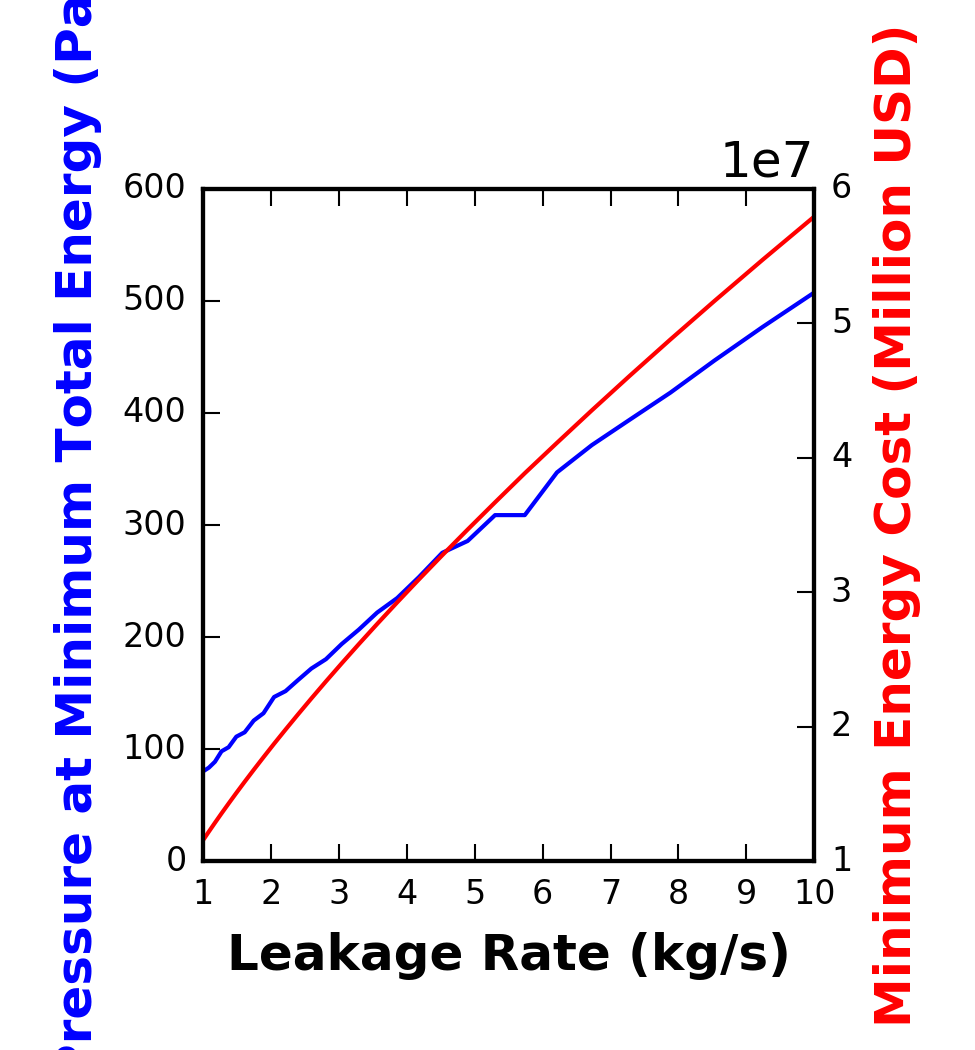
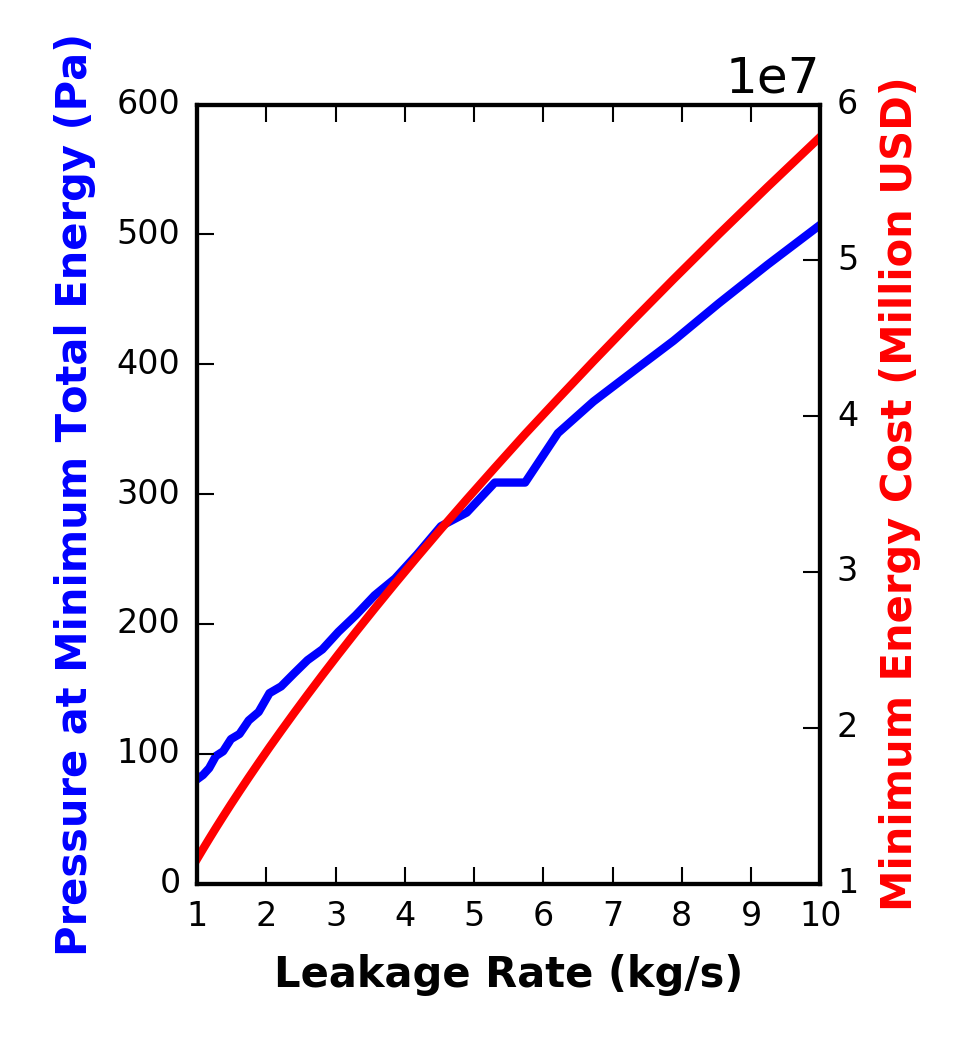
Update more figs

Changed region(s): [[0.0308, 0.0, 0.9538, 1.0], [0.6769, 0.2438, 0.7077, 0.2743], [0.6462, 0.2743, 0.6769, 0.3048]]

diff --git a/paper/images/trade_scripts/pressure_trades_plot.py b/paper/images/trade_scripts/pressure_trades_plot.py
@@ -21,16 +21,22 @@ plt.savefig('../graphs/pressure_trades/pressure_vs_Area.png', format = 'png', dp
 plt.show()
 
 fig = plt.figure(figsize = (3.25,3.5), tight_layout = True)
-ax = plt.axes()
-plt.hold(True)
-plt.subplot(211)
-line1, = plt.plot(p_tunnel, steady_vac, 'g-', linewidth = 2.0, label = 'Vaccum Power')
-line2, = plt.plot(p_tunnel, power, 'b-', linewidth = 2.0, label = 'Compressor Power')
-plt.ylabel('Power (hp)', fontsize = 10, fontweight = 'bold')
+ax1 = fig.add_subplot(211)
+line1, = ax1.plot(p_tunnel, steady_vac, 'g-', linewidth = 2.0, label = 'Vaccum Power')
+line2, = ax1.plot(p_tunnel, power, 'b-', linewidth = 2.0, label = 'Compressor Power')
+ax1.set_ylabel('Power (hp)', fontsize = 10, fontweight = 'bold')
 plt.legend(handles = [line1, line2], loc = 1, fontsize = 8)
-plt.subplot(212)
-plt.plot(p_tunnel, total_energy/(1.0e6), 'r-', linewidth = 2.0)
-plt.xlabel('Tube Pressure (Pa)', fontsize = 10, fontweight = 'bold')
-plt.ylabel('Total Energy Cost \n per Year (Million USD)', fontsize = 10, fontweight = 'bold')
+ax1.set_xticks([1000,2000,3000])
+ax1.set_yticks([4000, 8000, 12000, 16000])
+ax2 = fig.add_subplot(212)
+ax2.plot(p_tunnel, total_energy/(1.0e6), 'r-', linewidth = 2.0)
+ax2.set_xlabel('Tube Pressure (Pa)', fontsize = 10, fontweight = 'bold')
+ax2.set_ylabel('Total Energy Cost \n per Year (Million USD)', fontsize = 10, fontweight = 'bold')
+ax2.set_xticks([1000,2000,3000])
+ax2.set_yticks([0,40,80,120])
+plt.setp(ax1.get_xticklabels(), fontsize=8)
+plt.setp(ax1.get_yticklabels(), fontsize=8)
+plt.setp(ax2.get_xticklabels(), fontsize=8)
+plt.setp(ax2.get_yticklabels(), fontsize=8)
 plt.savefig('../graphs/pressure_trades/pressure_vs_power.png', format = 'png', dpi = 300)
 plt.show()

diff --git a/paper/images/trade_scripts/leakage_trades_plot.py b/paper/images/trade_scripts/leakage_trades_plot.py
@@ -25,10 +25,10 @@ plt.setp(ax1.get_yticklabels(), fontsize=8)
 plt.setp(ax2.get_xticklabels(), fontsize=8)
 plt.setp(ax2.get_yticklabels(), fontsize=8)
 
-ax1.plot(m_dot, p_tunnel, 'b-')
-ax2.plot(m_dot, total_energy_cost, 'r-')
-ax1.set_xlabel('Leakage Rate (kg/s)', fontsize = 12, fontweight = 'bold')
-ax1.set_ylabel('Pressure at Minimum Total Energy (Pa)', color='b', fontsize = 12, fontweight = 'bold')
-ax2.set_ylabel('Minimum Energy Cost (Million USD)', color='r', fontsize = 12, fontweight = 'bold')
+ax1.plot(m_dot, p_tunnel, 'b-', linewidth = 2.0)
+ax2.plot(m_dot, total_energy_cost, 'r-', linewidth = 2.0)
+ax1.set_xlabel('Leakage Rate (kg/s)', fontsize = 10, fontweight = 'bold')
+ax1.set_ylabel('Pressure at Minimum Total Energy (Pa)', color='b', fontsize = 10, fontweight = 'bold')
+ax2.set_ylabel('Minimum Energy Cost (Million USD)', color='r', fontsize = 10, fontweight = 'bold')
 plt.savefig('../graphs/leakage_trades/leakage_rate.png', format = 'png', dpi = 300)
 plt.show()

diff --git a/paper/images/trade_scripts/cd_vs_mach_plot.py b/paper/images/trade_scripts/cd_vs_mach_plot.py
@@ -1,0 +1,22 @@
+import numpy as np 
+import matplotlib.pyplot as plt
+from scipy import interpolate as interp
+
+cd = np.loadtxt('../data_files/cd_vs_mach/cd.txt', delimiter = '\t')
+mach = np.loadtxt('../data_files/cd_vs_mach/mach.txt', delimiter = '\t')
+
+f = interp.UnivariateSpline(mach, cd)
+
+x = np.linspace(mach[0], mach[-1])
+
+fig = plt.figure(figsize = (3.25,3.5), tight_layout = True)
+plt.hold(True)
+ax = plt.axes()
+ax.plot(mach, cd, 'bo', linewidth = 2.0)
+ax.plot(x, f(x), 'b--', linewidth = 1.0)
+plt.setp(ax.get_xticklabels(), fontsize=8)
+plt.setp(ax.get_yticklabels(), fontsize=8)
+ax.set_xlabel('Mach Number', fontsize = 10, fontweight = 'bold')
+ax.set_ylabel('Drag Coefficient', fontsize = 10, fontweight = 'bold')
+plt.savefig('../graphs/cd_vs_mach/cd_vs_mach.png', format = 'png', dpi = 300)
+plt.show()

diff --git a/paper/images/trade_scripts/cd_vs_mach_writer.py b/paper/images/trade_scripts/cd_vs_mach_writer.py
@@ -1,0 +1,8 @@
+import numpy as np
+
+mach_array = np.array([ 0.5  ,  0.6  ,  0.625,  0.65 ,  0.675,  0.7  ,  0.725])
+cd_array = np.array([ 0.04241176,  0.03947743,  0.04061261,  0.04464372,  0.05726695,
+    0.07248304,  0.08451007])
+
+np.savetxt('../../../paper/images/data_files/cd_vs_mach/cd.txt', cd_array, fmt = '%f', delimiter = '\t', newline = '\r\n')
+np.savetxt('../../../paper/images/data_files/cd_vs_mach/mach.txt', mach_array, fmt = '%f', delimiter = '\t', newline = '\r\n')
